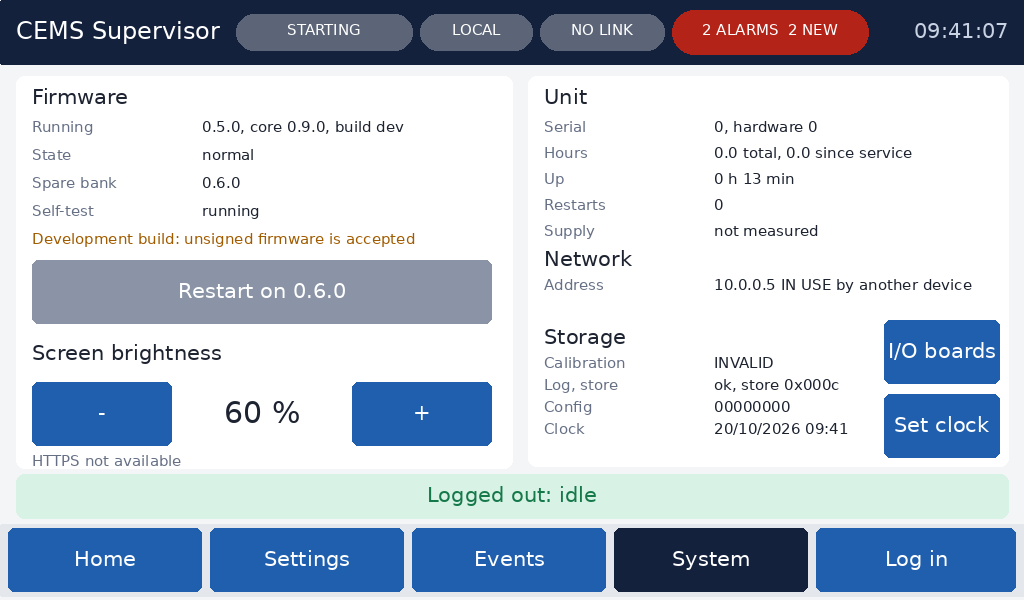
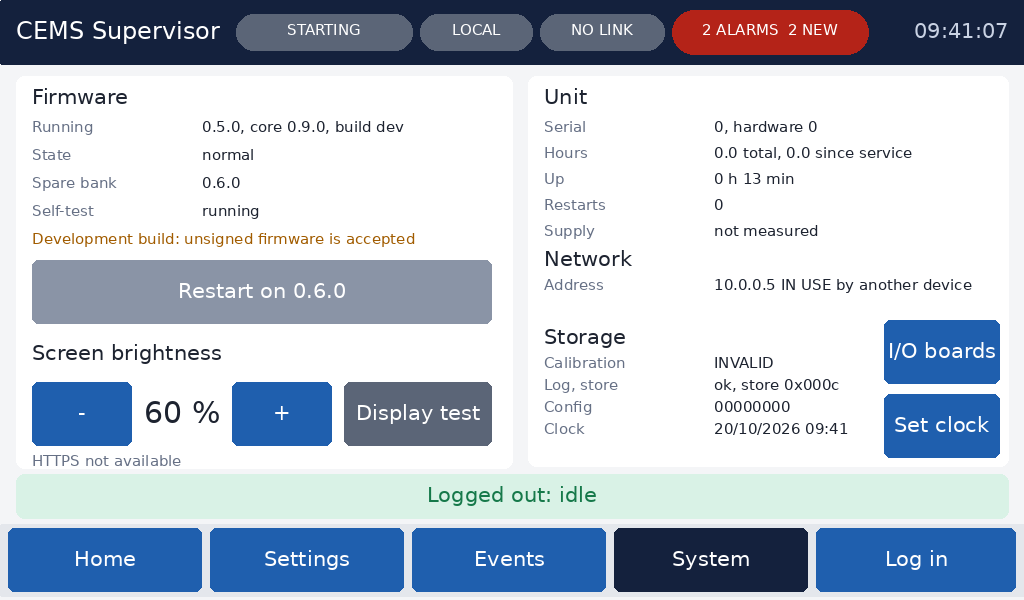
Touchscreen display test page for bench bring-up: controller status, measured refresh and system clock, colour patterns, touch alignment test
Claude-Session: https://claude.ai/code/session_01AbDXgecyAmn6R8hhL7qjD2

Changed region(s): [[0.125, 0.63, 0.5, 0.75]]

diff --git a/platform/ui/ui.c b/platform/ui/ui.c
@@ -53,6 +53,9 @@
 #define F_TEXT  28
 #define F_BIG   30
 #define F_HUGE  31
+#define DT_TRAIL 128             /* touch test: points kept */
+#define DT_PATTERNS 7            /* display test: full-screen patterns */
+#define REG_CLOCK_DT 0x302008u   /* BT817 REG_CLOCK: counts system clock cycles (display test) */
 #define IDLE_DIM_MS (10u * 60u * 1000u)
 #define LOCK_MS 30000u
 
@@ -68,7 +71,8 @@ enum {
     T_TAB0 = 1, T_W0 = 10, T_WMAX = 118, T_DLG_YES = 120, T_DLG_NO = 121,
     T_ROW0 = 200,           /* .. T_ROW0 + ROWS - 1 */
     T_CAL_START = 210, T_CAL_ACCEPT, T_CAL_ABORT, T_CAL_REVERT,
-    T_AL_ROW0 = 220         /* .. T_AL_ROW0 + ROWS - 1: tap an alarm for what to check */
+    T_AL_ROW0 = 220,        /* .. T_AL_ROW0 + ROWS - 1: tap an alarm for what to check */
+    T_DISP = 230, T_DT_COLOURS, T_DT_TOUCH, T_DT_NEXT, T_DT_CLEAR, T_DT_DONE   /* display test (bench bring-up) */
 };
 
 typedef enum { KB_NUM, KB_IP, KB_TEXT, KB_BOOL } kb_t;
@@ -123,6 +127,15 @@ static struct {
     uint16_t tmap_i[128];          /* tag -> grid item / cell (row << 6 | element) */
     char     ok_msg[48];
     uint8_t  cal_ch, cal_cmd;      /* calibration screen: the channel selected; the command being confirmed */
+    /* display test: 0 = the status page, 1 = full-screen patterns (dt_pat), 2 = touch test */
+    uint8_t  dt_mode, dt_pat;
+    int16_t  dt_x[DT_TRAIL], dt_y[DT_TRAIL];   /* touch test: the points seen, oldest first */
+    uint16_t dt_n;
+    bool     dt_down;              /* a finger is on the glass (touch test) */
+    int16_t  dt_dx, dt_dy;         /* the last touch-down's offset from the nearest target */
+    uint8_t  dt_tgt;               /* that target + 1 (0 = none yet) */
+    uint32_t dt_t0, dt_frames0, dt_clock0;   /* REG_FRAMES and REG_CLOCK at dt_t0, for the rates */
+    uint32_t dt_hz10, dt_mhz10;    /* refresh rate and system clock measured, x 10 (0 = not yet) */
     /* record editor */
     const ui_record_t *rec;
     uint8_t  rec_buf[PARAM_RECORD_MAX];
@@ -604,6 +617,7 @@ static void tap(uint8_t t, uint32_t now) {
             char m[96]; snprintf(m, sizeof m, "Restart on firmware %s now? Measurement stops during the restart.", st.staged_version);
             ask(ACT_FW, m);
         } else if (t == T_IOB) goto_scr(UI_IOB);
+        else if (t == T_DISP) { U.dt_mode = 0; U.dt_t0 = 0; U.dt_hz10 = U.dt_mhz10 = 0; goto_scr(UI_DISPLAY); }
         else if (t == T_CAL) { unsigned a; if (plat_cal_active(&a)) U.cal_ch = (uint8_t)a; goto_scr(UI_CAL); }
         else if (t == T_BRIGHT_DN) { U.bright = U.bright > 20 ? (uint8_t)(U.bright - 20) : 10; U.dirty = true; }
         else if (t == T_BRIGHT_UP) { U.bright = U.bright < 80 ? (uint8_t)(U.bright + 20) : 100; U.dirty = true; }
@@ -614,6 +628,14 @@ static void tap(uint8_t t, uint32_t now) {
         else if (t == T_CAL_ACCEPT) cal_tap(PLAT_CAL_CMD_ACCEPT, now);
         else if (t == T_CAL_ABORT) cal_tap(PLAT_CAL_CMD_ABORT, now);
         else if (t == T_CAL_REVERT) cal_tap(PLAT_CAL_CMD_REVERT, now);
+        break;
+    case UI_DISPLAY:
+        if (t == T_BACK) { U.dt_mode = 0; goto_scr(UI_SYSTEM); }
+        else if (t == T_DT_COLOURS) { U.dt_mode = 1; U.dt_pat = 0; U.dirty = true; }
+        else if (t == T_DT_TOUCH) { U.dt_mode = 2; U.dt_n = 0; U.dt_tgt = 0; U.dirty = true; }
+        else if (t == T_DT_NEXT && U.dt_mode == 1) { if (++U.dt_pat >= DT_PATTERNS) U.dt_mode = 0; U.dirty = true; }
+        else if (t == T_DT_CLEAR) { U.dt_n = 0; U.dt_tgt = 0; U.dirty = true; }
+        else if (t == T_DT_DONE) { U.dt_mode = 0; U.dirty = true; }
         break;
     default:
         break;
@@ -750,7 +772,7 @@ static void nav(void) {
     box(0, NAV_Y - 4, W, NAV_H + 8, 0xE4E7ECu, 1);
     for (int k = 0; k < 4; ++k) {
         bool cur = U.scr == scr_of[k] || (k == 1 && U.scr == UI_EDIT && !U.cell_f) || (k == 0 && (U.scr == UI_APP || U.scr == UI_REC)) ||
-                   (k == 3 && (U.scr == UI_IOB || U.scr == UI_CLOCK || U.scr == UI_CAL));
+                   (k == 3 && (U.scr == UI_IOB || U.scr == UI_CLOCK || U.scr == UI_CAL || U.scr == UI_DISPLAY));
         button((uint8_t)(T_NAV_HOME + k), (int16_t)(8 + k * 202), NAV_Y, 194, NAV_H, lab[k], cur ? C_HEAD : C_ACCENT, true);
     }
     char b[32];
@@ -1002,9 +1024,10 @@ static void draw_system(uint32_t now) {
     /* brightness */
     color(C_INK); text(32, BODY_Y + 266, F_TEXT, 0, "Screen brightness");
     snprintf(b, sizeof b, "%u %%", U.bright);
-    button(T_BRIGHT_DN, 32, BODY_Y + 306, 140, 64, "-", C_ACCENT, true);
-    color(C_INK); text(262, BODY_Y + 338, F_BIG, OPT_CENTER, b);
-    button(T_BRIGHT_UP, 352, BODY_Y + 306, 140, 64, "+", C_ACCENT, true);
+    button(T_BRIGHT_DN, 32, BODY_Y + 306, 100, 64, "-", C_ACCENT, true);
+    color(C_INK); text(182, BODY_Y + 338, F_BIG, OPT_CENTER, b);
+    button(T_BRIGHT_UP, 232, BODY_Y + 306, 100, 64, "+", C_ACCENT, true);
+    button(T_DISP, 344, BODY_Y + 306, 148, 64, "Display test", 0x5B6577u, true);   /* bench bring-up page */
     /* HTTPS fingerprint: a technician compares it with the browser's to know it reached this unit */
     const char *fp = tls_fingerprint();
     color(C_MUTE); text(32, BODY_Y + 378, F_SMALL, 0, fp[0] ? "HTTPS certificate fingerprint (SHA-256)" : "HTTPS not available");
@@ -1066,6 +1089,136 @@ static void draw_system(uint32_t now) {
     button(T_CLOCK, 884, BODY_Y + 318, 116, 64, "Set clock", C_ACCENT, true);
     button(T_IOB, 884, BODY_Y + 244, 116, 64, "I/O boards", C_ACCENT, true);
     if (plat_cal_count()) button(T_CAL, 884, BODY_Y + 40, 116, 64, plat_cal_any_due() ? "Cal DUE" : "Calibrate", plat_cal_any_due() ? C_WARN : C_ACCENT, true);
+}
+
+/* ---------------- display test (bench bring-up, HMI_BENCH_TEST.md) ----------------
+ * Status page: what the BT817 reports and what the driver has seen, with the refresh rate and
+ * system clock measured from REG_FRAMES and REG_CLOCK. "Colour test": full-screen patterns, a
+ * tap anywhere for the next. "Touch test": five targets; the trail of points touched and each
+ * touch-down's offset from the nearest target, to check the touch lines up with the picture. */
+static const int16_t dt_tx[5] = { 40, W - 40, 40, W - 40, W / 2 }, dt_ty[5] = { 40, 40, 560, 560, 300 };
+static const char *const dt_pat_name[DT_PATTERNS] = { "Colour bars and grey ramp", "White", "Black", "Red", "Green", "Blue", "Grid, 50 px" };
+
+static void dt_cross(int16_t x, int16_t y, uint32_t c) {
+    color(c);
+    eve_line(E, (int16_t)(x - 24), y, (int16_t)(x + 24), y, 2);
+    eve_line(E, x, (int16_t)(y - 24), x, (int16_t)(y + 24), 2);
+}
+
+static void draw_display_patterns(void) {
+    eve_tag(E, T_DT_NEXT);
+    switch (U.dt_pat) {
+    case 0: {
+        static const uint32_t bars[8] = { 0xFFFFFFu, 0xFFFF00u, 0x00FFFFu, 0x00FF00u, 0xFF00FFu, 0xFF0000u, 0x0000FFu, 0x000000u };
+        for (int k = 0; k < 8; ++k) box((int16_t)(k * 128), 0, 128, 400, bars[k], 0);
+        for (int k = 0; k < 32; ++k) { uint32_t g = (uint32_t)(k * 255 / 31); box((int16_t)(k * 32), 400, 32, 200, g << 16 | g << 8 | g, 0); }
+        break; }
+    case 1: box(0, 0, W, 600, 0xFFFFFFu, 0); break;
+    case 2: box(0, 0, W, 600, 0x000000u, 0); break;
+    case 3: box(0, 0, W, 600, 0xFF0000u, 0); break;
+    case 4: box(0, 0, W, 600, 0x00FF00u, 0); break;
+    case 5: box(0, 0, W, 600, 0x0000FFu, 0); break;
+    default:
+        box(0, 0, W, 600, 0x000000u, 0);
+        color(0xFFFFFFu);
+        for (int16_t x = 0; x < W; x = (int16_t)(x + 50)) eve_line(E, x, 0, x, 599, 1);
+        for (int16_t y = 0; y < 600; y = (int16_t)(y + 50)) eve_line(E, 0, y, W - 1, y, 1);
+        eve_line(E, W - 1, 0, W - 1, 599, 1); eve_line(E, 0, 599, W - 1, 599, 1);   /* the last pixel on every edge */
+        break;
+    }
+    char b[64];
+    snprintf(b, sizeof b, "%u of %u: %s. Tap for the next", (unsigned)U.dt_pat + 1u, (unsigned)DT_PATTERNS, dt_pat_name[U.dt_pat]);
+    color(U.dt_pat == 1 || U.dt_pat == 4 ? 0x000000u : 0xFFFFFFu);
+    if (U.dt_pat != 0) text(W / 2, 560, F_SMALL, OPT_CENTERX, b);
+    eve_tag(E, 0);
+}
+
+static void draw_display_touch(void) {
+    eve_tag(E, 255);                                  /* the glass itself: no tap, just points */
+    box(0, 0, W, 600, 0xFFFFFFu, 0);
+    eve_tag(E, 0);
+    int16_t x, y;
+    bool down = eve_touch_xy(E, &x, &y);
+    if (down) {
+        if (U.dt_n == DT_TRAIL) { memmove(U.dt_x, U.dt_x + 1, sizeof U.dt_x - sizeof U.dt_x[0]); memmove(U.dt_y, U.dt_y + 1, sizeof U.dt_y - sizeof U.dt_y[0]); U.dt_n--; }
+        U.dt_x[U.dt_n] = x; U.dt_y[U.dt_n] = y; U.dt_n++;
+        if (!U.dt_down) {                             /* touch-down: offset from the nearest target */
+            int32_t best = INT32_MAX;
+            for (uint8_t k = 0; k < 5; ++k) {
+                int32_t dx = x - dt_tx[k], dy = y - dt_ty[k], d = dx * dx + dy * dy;
+                if (d < best) { best = d; U.dt_tgt = (uint8_t)(k + 1); U.dt_dx = (int16_t)dx; U.dt_dy = (int16_t)dy; }
+            }
+        }
+    }
+    U.dt_down = down;
+    U.dirty = true;                                   /* follow the finger at the task's rate */
+    for (int k = 0; k < 5; ++k) dt_cross(dt_tx[k], dt_ty[k], U.dt_tgt == k + 1 ? C_ACCENT : C_INK);
+    color(C_BAD);
+    for (unsigned i = 0; i < U.dt_n; ++i) eve_rect(E, (int16_t)(U.dt_x[i] - 2), (int16_t)(U.dt_y[i] - 2), 5, 5, 1);
+    char b[96];
+    color(C_INK);
+    text(W / 2, 150, F_TEXT, OPT_CENTERX, "Touch each cross, then draw along the edges");
+    if (down) snprintf(b, sizeof b, "Finger at %d, %d", x, y);
+    else snprintf(b, sizeof b, "No finger on the glass");
+    text(W / 2, 190, F_SMALL, OPT_CENTERX, b);
+    if (U.dt_tgt) {
+        int16_t ax = (int16_t)(U.dt_dx < 0 ? -U.dt_dx : U.dt_dx), ay = (int16_t)(U.dt_dy < 0 ? -U.dt_dy : U.dt_dy);
+        snprintf(b, sizeof b, "Last touch: %d px %s, %d px %s of the cross", ax, U.dt_dx < 0 ? "left" : "right", ay, U.dt_dy < 0 ? "above" : "below");
+        color(ax > 10 || ay > 10 ? C_BAD : C_OK);     /* about 1.5 mm at 6.64 px/mm */
+        text(W / 2, 220, F_SMALL, OPT_CENTERX, b);
+    }
+    button(T_DT_CLEAR, 332, 420, 160, 64, "Clear", 0x5B6577u, true);
+    button(T_DT_DONE, 532, 420, 160, 64, "Done", C_ACCENT, true);
+}
+
+static void draw_display(uint32_t now) {
+    if (U.dt_mode == 1) { draw_display_patterns(); return; }
+    if (U.dt_mode == 2) { draw_display_touch(); return; }
+    char b[96];
+    uint32_t frames = eve_rd32(E, REG_FRAMES), clk = eve_rd32(E, REG_CLOCK_DT);
+    if (!U.dt_t0) { U.dt_t0 = now ? now : 1u; U.dt_frames0 = frames; U.dt_clock0 = clk; }
+    else if (now - U.dt_t0 >= 1000u) {                /* rates over the last second or more */
+        uint32_t ms = now - U.dt_t0;
+        U.dt_hz10 = (uint32_t)((uint64_t)(frames - U.dt_frames0) * 10000u / ms);
+        U.dt_mhz10 = (uint32_t)((uint64_t)(clk - U.dt_clock0) / 100u / ms);
+        U.dt_t0 = now; U.dt_frames0 = frames; U.dt_clock0 = clk;
+    }
+    box(16, BODY_Y, 640, 392, C_CARD, 8);
+    color(C_INK); text(32, BODY_Y + 10, F_TEXT, 0, "Display");
+    uint8_t id = eve_rd8(E, REG_ID);
+    uint32_t chip = eve_rd32(E, 0x0C0000u);           /* BT817: 08 17 01 00 (RAM_G chip ID, read after boot) */
+    snprintf(b, sizeof b, "REG_ID 0x%02X%s, chip %02X%02X", id, id == EVE_CHIP_ID ? " (answering)" : " (WRONG)", (unsigned)(chip & 0xFFu), (unsigned)((chip >> 8) & 0xFFu));
+    kv(32, BODY_Y + 44, "Controller", b);
+    snprintf(b, sizeof b, "%lu frames, %lu faults, %lu timeouts", (unsigned long)E->frames, (unsigned long)E->faults, (unsigned long)E->timeouts);
+    kv(32, BODY_Y + 70, "Driver", b);
+    kv(32, BODY_Y + 96, "Last fault", E->fault_msg[0] ? E->fault_msg : "none");
+    if (U.dt_hz10) snprintf(b, sizeof b, "%lu.%lu Hz", (unsigned long)(U.dt_hz10 / 10u), (unsigned long)(U.dt_hz10 % 10u));
+    else snprintf(b, sizeof b, "measuring...");
+    kv(32, BODY_Y + 122, "Refresh", b);
+    if (U.dt_mhz10) snprintf(b, sizeof b, "%lu.%lu MHz measured, %lu MHz set", (unsigned long)(U.dt_mhz10 / 10u), (unsigned long)(U.dt_mhz10 % 10u), (unsigned long)(eve_rd32(E, REG_FREQUENCY) / 1000000u));
+    else snprintf(b, sizeof b, "%lu MHz set, measuring...", (unsigned long)(eve_rd32(E, REG_FREQUENCY) / 1000000u));
+    kv(32, BODY_Y + 148, "System clock", b);
+    snprintf(b, sizeof b, "PCLK %lu, PCLK_FREQ 0x%03lX, 2X %lu", (unsigned long)eve_rd8(E, REG_PCLK), (unsigned long)eve_rd16(E, REG_PCLK_FREQ), (unsigned long)eve_rd8(E, REG_PCLK_2X));
+    kv(32, BODY_Y + 174, "Pixel clock", b);
+    snprintf(b, sizeof b, "%lu x %lu", (unsigned long)eve_rd16(E, REG_HSIZE), (unsigned long)eve_rd16(E, REG_VSIZE));
+    kv(32, BODY_Y + 200, "Size", b);
+    unsigned nf = 0;
+    for (unsigned i = 0; i < EVE_FONTS; ++i) nf += (E->fonts_ok >> i) & 1u;
+    snprintf(b, sizeof b, "%u of %u own fonts loaded%s", nf, (unsigned)EVE_FONTS, nf == EVE_FONTS ? "" : " (ROM fonts used)");
+    kv(32, BODY_Y + 226, "Fonts", b);
+    int16_t tx, ty;
+    bool td = eve_touch_xy(E, &tx, &ty);
+    if (td) snprintf(b, sizeof b, "config 0x%04X, finger at %d, %d", (unsigned)eve_rd16(E, REG_TOUCH_CONFIG), tx, ty);
+    else snprintf(b, sizeof b, "config 0x%04X, mode %u", (unsigned)eve_rd16(E, REG_TOUCH_CONFIG), (unsigned)eve_rd8(E, REG_TOUCH_MODE));
+    kv(32, BODY_Y + 252, "Touch", b);
+    snprintf(b, sizeof b, "%u %%, PWM duty %u of 128", (unsigned)U.bright, (unsigned)eve_rd8(E, REG_PWM_DUTY));
+    kv(32, BODY_Y + 278, "Backlight", b);
+    color(C_MUTE);
+    text(32, BODY_Y + 320, F_SMALL, 0, "Use this page for the bench checks in docs/HMI_BENCH_TEST.md.");
+    text(32, BODY_Y + 344, F_SMALL, 0, "Brightness is set on the System page.");
+    button(T_DT_COLOURS, 672, BODY_Y, 336, 120, "Colour test", C_ACCENT, true);
+    button(T_DT_TOUCH, 672, BODY_Y + 136, 336, 120, "Touch test", C_ACCENT, true);
+    button(T_BACK, 672, BODY_Y + 272, 336, 120, "Back", 0x5B6577u, true);
 }
 
 /* I/O boards (iobus.h): one card per board, outputs and inputs as lit squares, faults in words */
@@ -1954,6 +2107,13 @@ void ui_draw(eve_t *e, uint32_t now) {
     eve_frame_begin(e, 0xF4, 0xF5, 0xF7);
     eve_fonts_use(e);
     eve_tag(e, 0);
+    if (U.scr == UI_DISPLAY && U.dt_mode) {           /* full screen: no header, toasts or navigation */
+        draw_display(now);
+        (void)eve_frame_end(e);
+        U.dirty = U.dt_mode == 2;
+        U.last_draw = now;
+        return;
+    }
     header(now);
     switch (U.scr) {
     case UI_PARAMS: draw_params(); break;
@@ -1968,6 +2128,7 @@ void ui_draw(eve_t *e, uint32_t now) {
     case UI_REC:   draw_rec(); break;
     case UI_IOB:   draw_iob(); break;
     case UI_CAL:   draw_cal(now); break;
+    case UI_DISPLAY: draw_display(now); break;
     default:        draw_home(); break;
     }
     if (now < U.toast_until) {

diff --git a/tests/test_ui.c b/tests/test_ui.c
@@ -656,6 +656,55 @@ static void t_iob_screen(void) {
     iob_link = IOB_LINK_ETH;
 }
 
+/* the display test page for bench bring-up (HMI_BENCH_TEST.md): controller status and measured
+ * rates, the colour patterns (a tap anywhere steps on, the last goes back), and the touch test
+ * (points from REG_TOUCH_SCREEN_XY, the offset from the nearest cross) */
+static void t_display_screen(void) {
+    setup();
+    CHECK(tap("System"));
+    CHECK(tap("Display test"));
+    CHECK_EQ(ui_screen(), UI_DISPLAY);
+    CHECK(shows("Colour test")); CHECK(shows("Touch test"));
+    CHECK(shows("(answering)")); CHECK(shows("chip 0817"));
+    CHECK(shows("1024 x 600"));
+    CHECK(shows("measuring..."));
+    /* rates over a second: 60 frames and 72 M clocks */
+    for (int k = 0; k < 4; ++k) sim.regs[REG_FRAMES - EVE_RAM_REG + k] = 0;
+    sim.regs[0x302008u - EVE_RAM_REG] = 0; sim.regs[0x302009u - EVE_RAM_REG] = 0; sim.regs[0x30200Au - EVE_RAM_REG] = 0; sim.regs[0x30200Bu - EVE_RAM_REG] = 0;
+    frame();
+    now += 980;                                        /* frame() adds 20 */
+    sim.regs[REG_FRAMES - EVE_RAM_REG] = 60;
+    { uint32_t c = 72000000u; for (int k = 0; k < 4; ++k) sim.regs[0x302008u - EVE_RAM_REG + k] = (uint8_t)(c >> (8 * k)); }
+    frame();
+    CHECK(shows("Hz")); CHECK(shows("MHz measured"));
+    dump("display");
+    /* patterns: full screen, no navigation; seven taps go through them and back */
+    CHECK(tap("Colour test"));
+    CHECK(!shows("Home"));
+    for (int k = 0; k < 6; ++k) { press(233); CHECK_EQ(ui_screen(), UI_DISPLAY); }   /* T_DT_NEXT */
+    CHECK(shows("Grid, 50 px"));
+    dump("display_grid");
+    press(233);
+    CHECK(shows("Colour test")); CHECK(shows("Home"));
+    /* touch test: a touch 6 px right and 4 px below the top-left cross */
+    CHECK(tap("Touch test"));
+    CHECK(shows("Touch each cross"));
+    CHECK(shows("No finger on the glass"));
+    eve_sim_touch_xy(&sim, 46, 44); eve_sim_touch(&sim, 255);
+    ui_input(255, now); frame();
+    CHECK(shows("Finger at 46, 44"));
+    CHECK(shows("Last touch: 6 px right, 4 px below of the cross"));
+    eve_sim_touch_xy(&sim, 60, 44); frame();
+    eve_sim_touch_xy(&sim, -32768, -32768); eve_sim_touch(&sim, 0);
+    ui_input(0, now); frame();
+    CHECK(shows("No finger on the glass"));
+    CHECK(shows("Last touch: 6 px right"));           /* only a touch-down moves it */
+    dump("display_touch");
+    CHECK(tap("Clear")); CHECK(!shows("Last touch"));
+    CHECK(tap("Done")); CHECK(shows("Colour test"));
+    CHECK(tap("Back")); CHECK_EQ(ui_screen(), UI_SYSTEM);
+}
+
 void test_ui_all(void) {
     bsp_host_reset();
     bsp_host.ms = 100000;
@@ -665,4 +714,5 @@ void test_ui_all(void) {
     RUN(t_iob_screen);
     RUN(t_state_quality);
     RUN(t_cal_screen);
+    RUN(t_display_screen);
 }

diff --git a/host/eve_sim/eve_sim.c b/host/eve_sim/eve_sim.c
@@ -168,11 +168,18 @@ void eve_sim_init(eve_sim_t *s) {
     s->zbuf = zbuf_pool;
     memset(ram_g_pool, 0, sizeof ram_g_pool);
     s->regs[REG_ID - EVE_RAM_REG] = EVE_CHIP_ID;
+    eve_sim_touch_xy(s, -32768, -32768);             /* no finger, as the chip reports it */
+    static const uint8_t chip[4] = { 0x08, 0x17, 0x01, 0x00 };   /* BT817 chip ID in RAM_G after boot */
+    memcpy(ram_g_pool + 0x0C0000u, chip, sizeof chip);
     s->bus.select = b_select; s->bus.write = b_write; s->bus.read = b_read;
     s->bus.delay_ms = b_delay; s->bus.ctx = s;
 }
 
 void eve_sim_touch(eve_sim_t *s, uint8_t tag) { s->regs[REG_TOUCH_TAG - EVE_RAM_REG] = tag; }
+void eve_sim_touch_xy(eve_sim_t *s, int16_t x, int16_t y) {
+    uint32_t v = (uint32_t)(uint16_t)x << 16 | (uint16_t)y;
+    for (int k = 0; k < 4; ++k) s->regs[REG_TOUCH_SCREEN_XY - EVE_RAM_REG + k] = (uint8_t)(v >> (8 * k));
+}
 
 /* ---- frame walking ---- */
 typedef void (*visit_fn)(void *ctx, uint32_t cmd, const uint8_t *args, const char *str, uint8_t tag);

diff --git a/platform/include/ui.h b/platform/include/ui.h
@@ -37,7 +37,8 @@ enum { UI_HOME = 0, UI_PARAMS, UI_EDIT, UI_LOGIN, UI_EVENTS, UI_SYSTEM, UI_ALARM
        UI_APP,      /* the application's screens (ui_app.h), as tabs */
        UI_REC,      /* a record editor (sequence, schedule) */
        UI_IOB,      /* I/O boards on RS-485: state, channels, faults (iobus.h) */
-       UI_CAL };    /* calibration: channels, record in force, history, start/accept/abort/revert (plat_cal.h) */
+       UI_CAL,      /* calibration: channels, record in force, history, start/accept/abort/revert (plat_cal.h) */
+       UI_DISPLAY };   /* display test for bench bring-up: controller status, colour patterns, touch test */
 
 void    ui_init(const ui_cfg_t *cfg, uint32_t now_ms);
 void    ui_input(uint8_t tag, uint32_t now_ms);     /* the tag under the finger now (0 = none); every 10..20 ms */

diff --git a/host/eve_sim/eve_sim.h b/host/eve_sim/eve_sim.h
@@ -39,6 +39,7 @@ typedef struct {
 
 void eve_sim_init(eve_sim_t *s);
 void eve_sim_touch(eve_sim_t *s, uint8_t tag);            /* 0 = finger lifted */
+void eve_sim_touch_xy(eve_sim_t *s, int16_t x, int16_t y);   /* REG_TOUCH_SCREEN_XY; -32768, -32768 = no finger */
 
 /* Inspect the last frame */
 bool eve_sim_has_text(const eve_sim_t *s, const char *needle);   /* in any text/button/keys string */
